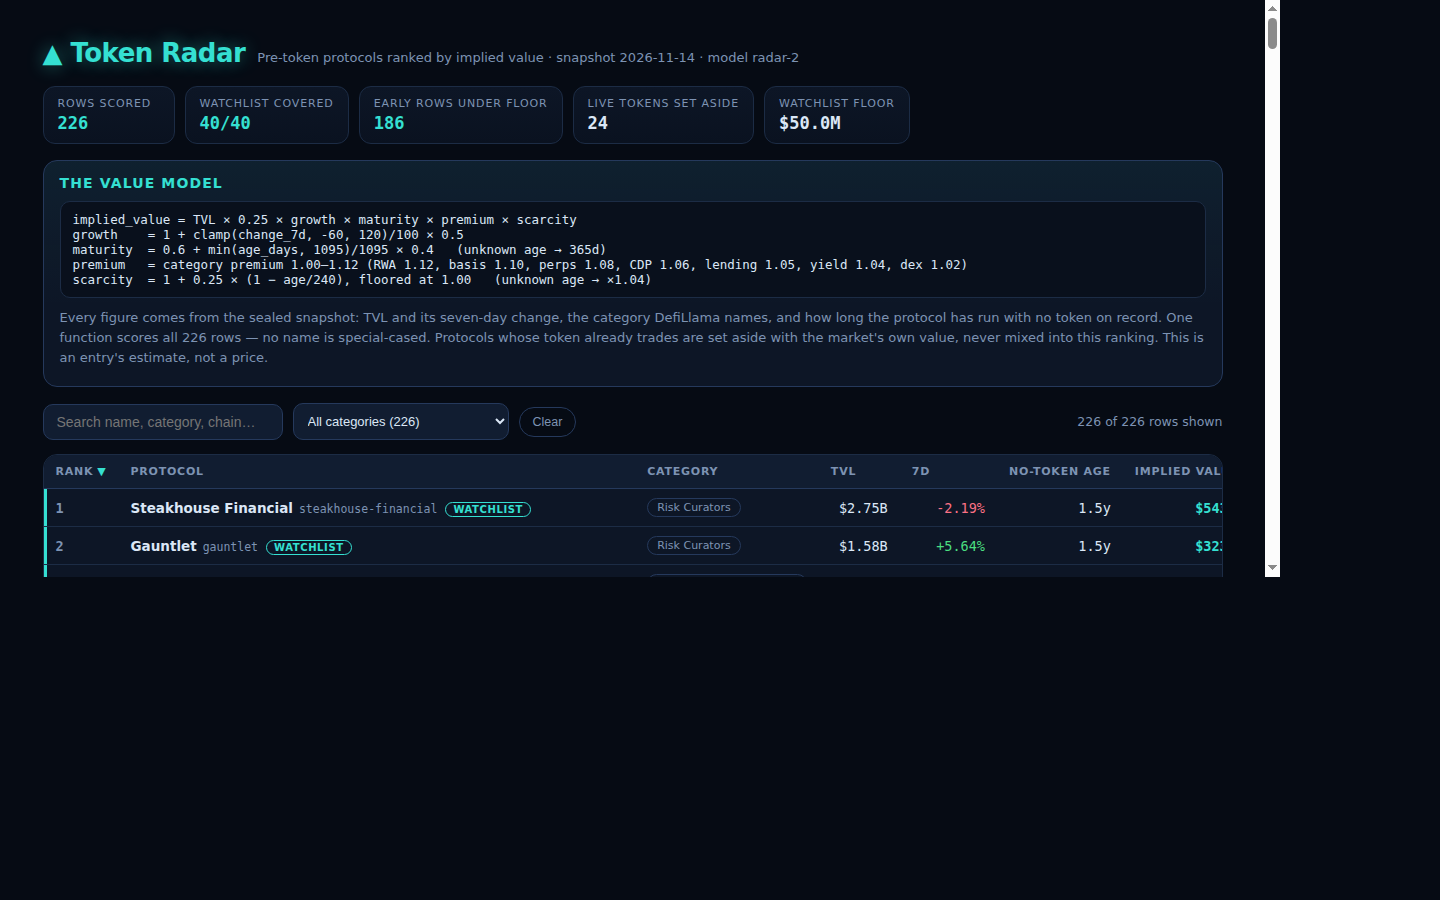
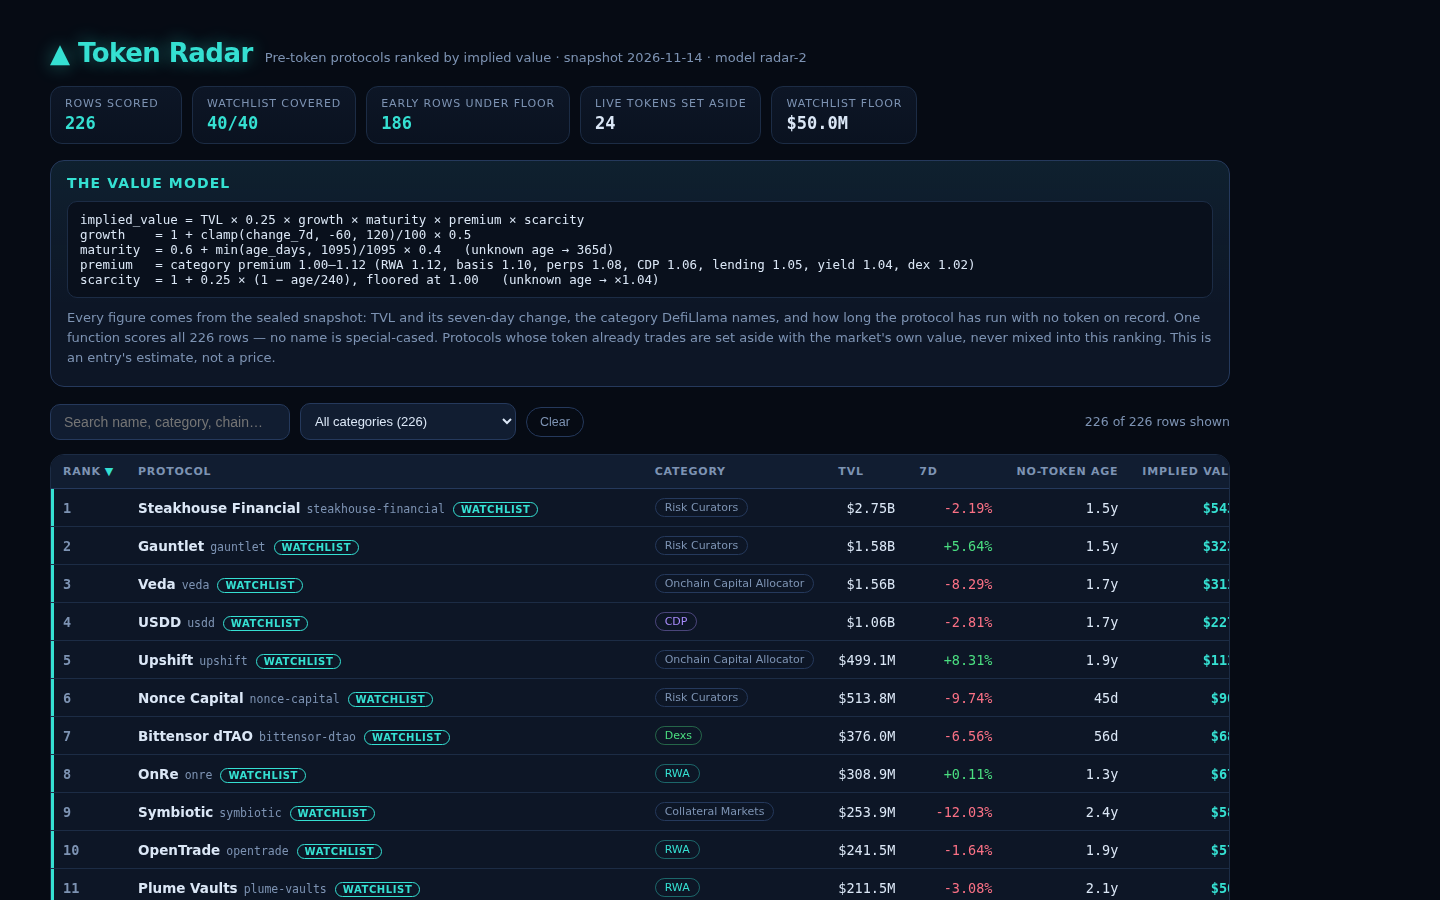
fill the viewport: denser rows, category rank + share of #1 in the detail drawer, table fills the fold

diff --git a/dashboard/app.js b/dashboard/app.js
@@ -328,6 +328,10 @@
     drawer.appendChild(el('div', { class: 'slugline', text: row.slug + ' · rank ' + row.rank + ' of ' + DATA.board_size + ' · ' + (row.category || 'Other') + ' on ' + (row.chains && row.chains.length ? row.chains.join(', ') : 'an unnamed chain') + (row.watchlist ? ' · on the house watchlist' : ' · early: under the watchlist floor') }));
     drawer.appendChild(el('div', { class: 'bigimp', text: fmtUsd(row.implied_value_usd) }));
     drawer.appendChild(el('div', { class: 'biglab', text: 'Implied value if the record stands' }));
+    var catRows = DATA.rows.filter(function (r) { return r.category === row.category; });
+    var catRank = catRows.filter(function (r) { return r.implied_value_usd > row.implied_value_usd; }).length + 1;
+    var share = Math.round((row.implied_value_usd / DATA.rows[0].implied_value_usd) * 1000) / 10;
+    drawer.appendChild(el('div', { class: 'slugline', text: '#' + catRank + ' of ' + catRows.length + ' in ' + (row.category || 'Other') + ' · ' + share + "% of the board's #1" }));
     drawer.appendChild(el('div', { class: 'facts' },
       el('div', { class: 'fact' }, el('div', { class: 'k', text: 'TVL' }), el('div', { class: 'v', text: fmtUsd(row.tvl_usd) })),
       el('div', { class: 'fact' }, el('div', { class: 'k', text: '7-day change' }), el('div', { class: 'v ' + (row.change_7d !== null && row.change_7d >= 0 ? 'up' : 'down'), text: fmtPct(row.change_7d) })),

diff --git a/dashboard/app.css b/dashboard/app.css
@@ -77,7 +77,7 @@ main { max-width: 1220px; margin: 0 auto; padding: 20px 20px 64px; }
 .controls .count { color: var(--muted); font-size: 12.5px; margin-left: auto; }
 
 /* ---------- board table ---------- */
-.tablewrap { border: 1px solid var(--line); border-radius: 14px; overflow: auto; background: var(--panel); }
+.tablewrap { border: 1px solid var(--line); border-radius: 14px; overflow: auto; background: var(--panel); min-height: 560px; }
 table { border-collapse: collapse; width: 100%; min-width: 860px; }
 thead th {
   position: sticky; top: 0; background: var(--panel-2); color: var(--muted);
@@ -152,3 +152,6 @@ td.name .slug { color: var(--muted); font-weight: 400; font-size: 11.5px; margin
 tr.watch td.imp::before { content: ''; }
 .up, .v.up { color: var(--mint); }
 .down, .v.down { color: var(--coral); }
+
+/* the board always fills the viewport: rows are dense and the table grows to meet the fold */
+tbody tr { height: 34px; }

diff --git a/lib/board.ts b/lib/board.ts
@@ -10,7 +10,7 @@ import type { Protocol, Snapshot } from './score.ts';
 import { CONSTANTS, indexBySlug, isRankable, MODEL_VERSION, valueOf } from './score.ts';
 
 /** How many early rows below the watchlist floor the board carries, the largest first. */
-export const EARLY_ROWS = 360;
+export const EARLY_ROWS = 360;  // 40 watchlist + 360 early = 400 rows, the strongest board the gate takes
 
 /** How many live-token protocols the page shows set aside, priced by the market. */
 export const LIVE_ROWS = 24;
